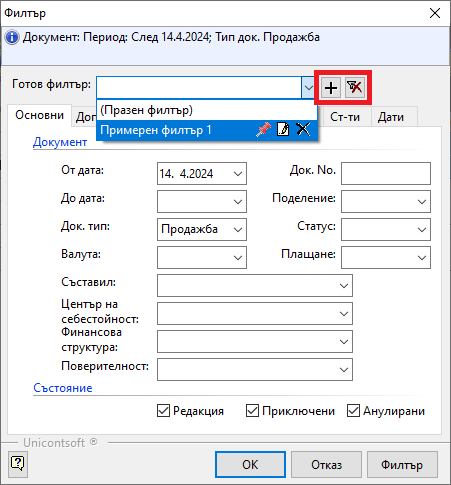
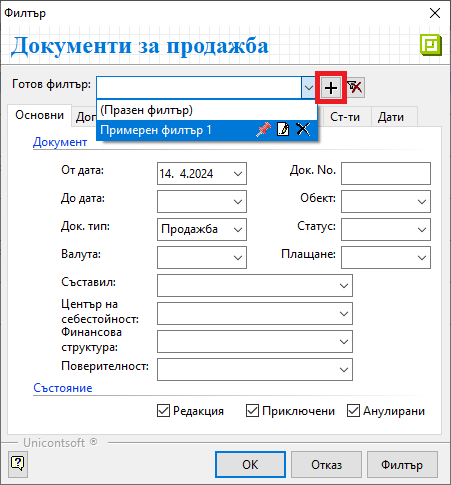
Подмяна скрийншот

Changed region(s): [[0.0, 0.0, 1.0, 0.3711], [0.5898, 0.4021, 0.745, 0.433]]

diff --git a/start/003-lists-configuration.md b/start/003-lists-configuration.md
@@ -127,7 +127,7 @@
 ![](903-lists-configuration8.png){ class=align-center w=15cm }
 
 
-> Във филтър формата има бутон *Изчистване текущ филтър* за автоматично почистване на всички полета.  
+> Във филтър формата има бутон **[x]** *Изчистване текущ филтър* за автоматично почистване на всички полета.  
 Това е полезно при стартиране на ново търсене, защото гарантира, че ще настроите филтъра "от нулата".   
 
 ![](903-lists-configuration9.png){ class=align-center }
@@ -182,12 +182,11 @@
 За да работят максимално бързо списъците с документи, избягвайте филтриране с ненужно дълги времеви периоди.  
 ```
 
-> В поле *Готов филтър* на форма *Филтър* може да настройвате готови шаблони с различни комбинации от критерии.  
+В поле *Готов филтър* на форма *Филтър* може да настройвате готови шаблони с различни комбинации от критерии.  
+Нов шаблон се добавя с бутон **[+]**, като преди това сте попълнили желани те полета на филтъра. Записаните готови филтри се отварят в падащ списък с бутони за контрол - закачане, редакция, изтриване.   
+
 
 ![](903-lists-configuration13.png){ class=align-center }
-
-Шаблон с филтър се добавя или изтрива съответно от бутоните **[+]** и **[x]** след полето вдясно.  
-Записаните готови филтри се отварят в падащ списък с бутони за контрол - закачане, редакция, изтриване.  
 
 ## **Използване на Списък с данни в справките**
 
@@ -207,5 +206,5 @@
 С активирането на *Тотали* за избрана групировка може да добавите нова и полезна иформация.  
 ```
 
-> В тази си форма справките (или части от тях) могат да бъдат копирани във външен файл, където списъкът подлежи на пълна редакция и преформатиране.  
-> Пълните данни на текуща справка може да експортирате и в CSV или XLS файлове. Функцията е достъпна от меню **Средства » Експорт на данни**.  
+> В тази си форма справките (или части от тях) могат да бъдат копирани във външен файл, където списъкът подлежи на редакция и преформатиране.  
+> Може да експортирате пълното съдържание на справка и в CSV или XLS файлове. Функцията е достъпна от меню **Средства » Експорт на данни**.  
